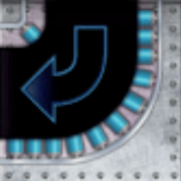
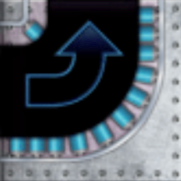
conveyor fix and leftorright

diff --git a/src/main/java/dk/dtu/compute/se/pisd/roborally/controller/GameController.java b/src/main/java/dk/dtu/compute/se/pisd/roborally/controller/GameController.java
@@ -23,6 +23,7 @@ package dk.dtu.compute.se.pisd.roborally.controller;
 
 import dk.dtu.compute.se.pisd.roborally.model.*;
 import javafx.scene.control.Alert;
+import javafx.scene.control.ChoiceDialog;
 import org.jetbrains.annotations.NotNull;
 
 import java.util.*;
@@ -266,6 +267,9 @@ public class GameController {
                 case SPAM:
                     this.spam(player);
                     break;
+                case leftOrRight:
+                    this.leftOrRight(player);
+                    break;
                 default:
                     // DO NOTHING (for now)
             }
@@ -306,11 +310,6 @@ public class GameController {
         for (int i = 0 ; i<3;i++) {
             if(player.reboot==false){
                 player.moveForward();}}}
-    private void Move2(Player player) {
-        for (int i = 0 ; i<2;i++) {
-            player.moveForward();
-        }
-    }
 
     // TODO: V2
     public void fastForward(@NotNull Player player) {
@@ -333,6 +332,25 @@ public class GameController {
         }
     }
 
+    public void leftOrRight(@NotNull Player player){
+        ChoiceDialog<String> dialog = new ChoiceDialog<>("Left/Right", "Left", "Right");
+        dialog.setContentText("What way do you want to turn");
+
+        dialog.showAndWait();
+
+        String selectedDirection = dialog.getSelectedItem();
+        if (selectedDirection != null) {
+
+
+            switch (selectedDirection) {
+                case "Left":
+                    turnLeft(player);
+                    break;
+                case "Right":
+                    turnRight(player);
+                    break;
+    }}}
+
     public boolean moveCards(@NotNull CommandCardField source, @NotNull CommandCardField target) {
         CommandCard sourceCard = source.getCard();
         CommandCard targetCard = target.getCard();
@@ -349,10 +367,6 @@ public class GameController {
      * A method called when no corresponding controller operation is implemented yet. This
      * should eventually be removed.
      */
-    public void notImplemented() {
-        // XXX just for now to indicate that the actual method is not yet implemented
-        assert false;
-    }
     public void executeCommandOptionAndContinue(Command command,Player player){
         int step =board.getStep();
         Player currentPlayer = board.getCurrentPlayer();

diff --git a/src/main/java/dk/dtu/compute/se/pisd/roborally/model/Space.java b/src/main/java/dk/dtu/compute/se/pisd/roborally/model/Space.java
@@ -163,13 +163,12 @@ public class Space extends Subject {
 
         if(behindBelt!=null){behindBeltTrue = behindBelt.getHeading()==belt.getHeading();}
 
-        if (leftBeltTrue && rightBeltTrue && behindBeltTrue) {
-            return 6; // All neighbors have conveyor belts
-        } else if (leftBeltTrue && rightBeltTrue) {
+
+       if (leftBeltTrue && rightBeltTrue) {
             return 5; // Both left and right neighbors have conveyor belts
-        } else if (leftBeltTrue && behindBeltTrue) {
+        } else if ( rightBeltTrue&& behindBeltTrue) {
             return 4; // Both left and behind neighbors have conveyor belts
-        } else if (rightBeltTrue && behindBeltTrue) {
+        } else if (leftBeltTrue && behindBeltTrue) {
             return 3; // Both right and behind neighbors have conveyor belts
         } else if (leftBeltTrue) {
             return 2; // Only the left neighbor has a conveyor belt

diff --git a/src/main/java/dk/dtu/compute/se/pisd/roborally/view/SpaceView.java b/src/main/java/dk/dtu/compute/se/pisd/roborally/view/SpaceView.java
@@ -119,12 +119,12 @@ public class SpaceView extends StackPane implements ViewObserver {
         BeltDoubleRotating beltDoubleRotating = space.getAction(BeltDoubleRotating.class);
 
         if (beltRotating != null) {
-            String imagePath = "images/RotatingConeyirBelt/S" + space.checkNeighborBelt(beltRotating) + ".png";
+            String imagePath = "images/RotatingConveyorBelt/S" + space.checkNeighborBelt(beltRotating) + ".png";
             updateBeltImage(beltRotating, imagePath);
         }
 
         if (beltDoubleRotating != null) {
-            String imagePath = "images/RotatingConeyirBelt/D" + space.checkNeighborBelt(beltDoubleRotating) + ".png";
+            String imagePath = "images/RotatingConveyorBelt/D" + space.checkNeighborBelt(beltDoubleRotating) + ".png";
             updateBeltImage(beltDoubleRotating, imagePath);
         }
     }

diff --git a/src/main/java/dk/dtu/compute/se/pisd/roborally/model/Deck.java b/src/main/java/dk/dtu/compute/se/pisd/roborally/model/Deck.java
@@ -31,6 +31,11 @@ public class Deck {
                 cards.add(new CommandCard(Command.RIGHT));
             }
 
+
+            for (int i = 0; i < 3; i++) {
+                cards.add(new CommandCard(Command.leftOrRight));
+            }
+
             for (int i = 0; i < 1; i++) {
                 cards.add(new CommandCard(Command.uTurn));
             }

diff --git a/src/main/java/dk/dtu/compute/se/pisd/roborally/model/Command.java b/src/main/java/dk/dtu/compute/se/pisd/roborally/model/Command.java
@@ -46,6 +46,8 @@ public enum Command {
 
     AGAIN("Again"),
     uTurn("U-turn"),
+
+    leftOrRight("Left or right"),
     SPAM("Spam");
 
 
